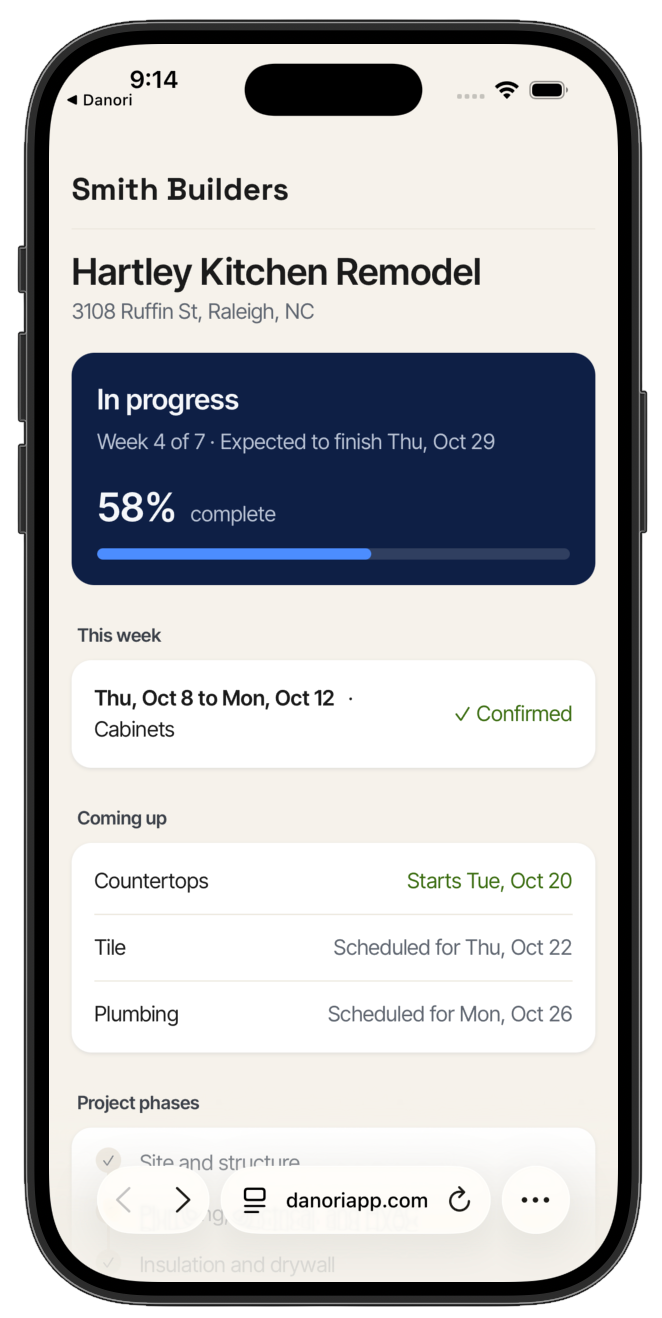
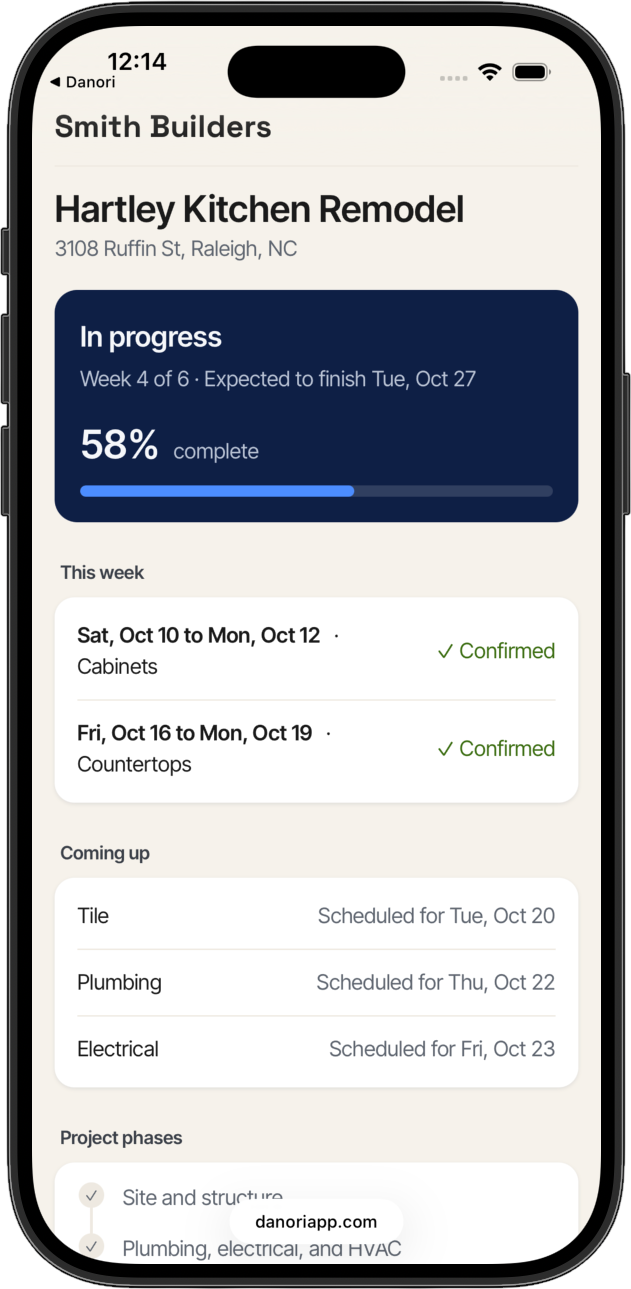
Update app screenshots; add second client page with job photo

diff --git a/index.html b/index.html
@@ -116,7 +116,7 @@
         </div>
       </div>
       <div class="hero-visual">
-        <img class="device-shot" src="/images/screens/dashboard-today.png" alt="Danori dashboard with Today's jobs and Top priorities" width="631" height="1289">
+        <img class="device-shot" src="/images/screens/dashboard-today.png?v=2" alt="Danori dashboard with Today's jobs and Top priorities" width="631" height="1289" style="aspect-ratio: 631 / 1289; object-fit: contain; object-position: bottom center;">
       </div>
     </div>
   </section>
@@ -153,7 +153,7 @@
         </div>
         <div class="screen-grid">
           <img class="device-shot" src="/images/screens/dashboard-priorities.png" alt="Danori dashboard showing Top priorities and Jobs at a glance" width="631" height="1289">
-          <img class="device-shot" src="/images/screens/calendar.png" alt="Danori calendar with a day selected, who's on site, and whether they confirmed" width="631" height="1288">
+          <img class="device-shot" src="/images/screens/calendar.png?v=2" alt="Danori calendar with a day selected, who's on site, and whether they confirmed" width="631" height="1289">
         </div>
       </div>
     </div>
@@ -185,7 +185,7 @@
           <p class="gauge-caption">On this job, you'll keep $3,880 instead of $4,680. Cabinets ran over the most.</p>
         </div>
         <div class="screen-grid">
-          <img class="device-shot" src="/images/screens/project-gauges.png" alt="Project details with contingency and profit gauges" width="662" height="1316">
+          <img class="device-shot" src="/images/screens/project-gauges.png?v=2" alt="Project details with contingency and profit gauges" width="631" height="1289">
           <img class="device-shot" src="/images/screens/estimate.png" alt="Estimate screen showing client price and what you keep" width="666" height="1310">
           <img class="device-shot" src="/images/screens/change-order.png" alt="Change order screen that rolls a new item into the job price" width="662" height="1308">
         </div>
@@ -207,7 +207,10 @@
             <li>No money shown, just where the job stands.</li>
           </ul>
         </div>
-        <img class="device-shot" src="/images/screens/client-page.png" alt="Client page showing job progress, percent complete, this week's work, what's coming up, and project phases, with no money" width="692" height="1306">
+        <div class="screen-grid">
+          <img class="device-shot" src="/images/screens/client-page.png?v=2" alt="Client page showing job progress, 58% complete, this week's work, and what's coming up, with no money" width="631" height="1289">
+          <img class="device-shot" src="/images/screens/client-page-2.png?v=2" alt="Client page showing what's coming up, project phases with one marked happening now, and a shared photo of the cabinets, with no money shown" width="631" height="1289">
+        </div>
       </div>
     </div>
   </section>
